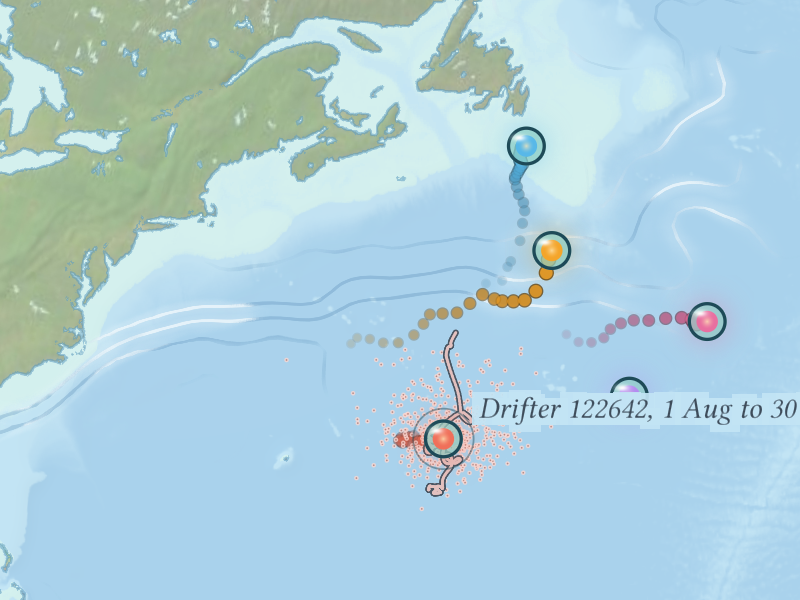
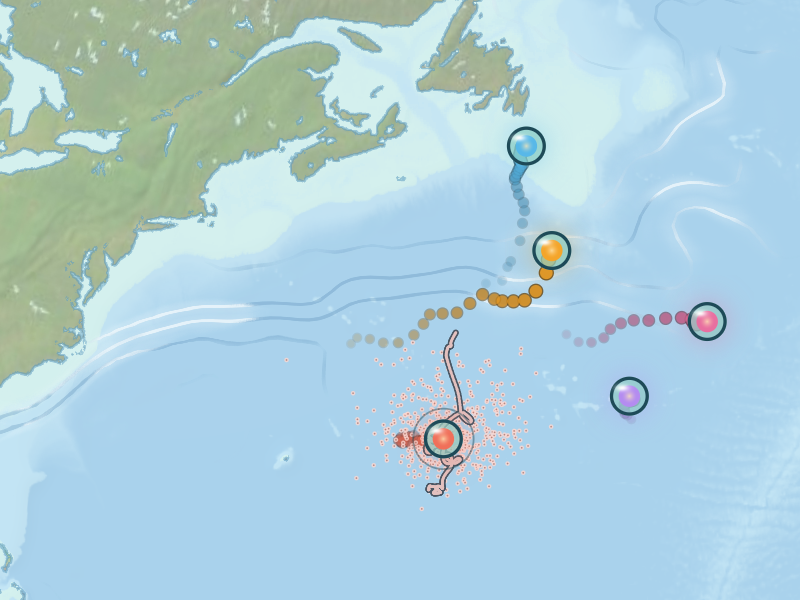
Adrift, Visual R5: a chosen lamp's possibilities at a glance; the night deepens round it; the label gone; the lights' tiny blink (painting-company row 196) [skip ci]
The owner's real use case: zoomed out, see where all a lamp's possibilities are. From zoom 2.4 out
each self is a soft kernel at a low alpha, so five hundred lie into a field of the lamp's hue, a
density pale where one passed and the lamp's colour where many did; close in they are the dusting
as before. A veil pass of the look's own, drawn before the marks, deepens the night (by day a cool
lighter veil) everywhere but a soft window round the chosen lamp, so its cloud is what the eye
goes to and the living land steps back without going dark. The drifter's label is gone unless
the truth's marks are asked for, the silver stays. Close in each light blinks a tiny bit of its
own, the feeling of flying over a city. Two plans photograph it by night at zoom 1 and 1.6.

Claude-Session: https://claude.ai/code/session_01BAtsk9kaoqfcFmaDHtS7UL

Changed region(s): [[0.5938, 0.63, 1.0, 0.72]]

diff --git a/adrift/crates/adrift-core/src/look/veil.rs b/adrift/crates/adrift-core/src/look/veil.rs
@@ -1,0 +1,57 @@
+//! The veil (`veil.wgsl`): the night deepening round the chosen lamp so its cloud is what the eye
+//! goes to; a full-screen pass over the stage, before the marks.
+use super::{marks_wgsl, Uniform};
+use crate::gpu::Gpu;
+use bytemuck::{Pod, Zeroable};
+
+#[repr(C)]
+#[derive(Clone, Copy, Debug, Default, Pod, Zeroable)]
+pub struct VeilUniform {
+    pub centre: [f32; 4],
+    pub radius: f32,
+    pub soft: f32,
+    pub strength: f32,
+    pub night: f32,
+}
+
+pub struct Veil {
+    pipeline: wgpu::RenderPipeline,
+    uniform: Uniform<VeilUniform>,
+    on: bool,
+}
+
+impl Veil {
+    pub fn new(gpu: &Gpu, view: &wgpu::BindGroupLayout) -> Veil {
+        let module = gpu.shader("veil", &marks_wgsl(include_str!("veil.wgsl")));
+        let uniform = Uniform::new(gpu, "veil");
+        let layout = gpu.device.create_pipeline_layout(&wgpu::PipelineLayoutDescriptor { label: Some("veil"), bind_group_layouts: &[view, &uniform.layout], push_constant_ranges: &[] });
+        let pipeline = gpu.device.create_render_pipeline(&wgpu::RenderPipelineDescriptor {
+            label: Some("veil"),
+            layout: Some(&layout),
+            vertex: wgpu::VertexState { module: &module, entry_point: Some("vs"), buffers: &[], compilation_options: Default::default() },
+            fragment: Some(wgpu::FragmentState { module: &module, entry_point: Some("fs"), compilation_options: Default::default(), targets: &[Some(wgpu::ColorTargetState { format: gpu.format, blend: Some(Gpu::over()), write_mask: wgpu::ColorWrites::ALL })] }),
+            primitive: wgpu::PrimitiveState { topology: wgpu::PrimitiveTopology::TriangleList, ..Default::default() },
+            depth_stencil: None,
+            multisample: Default::default(),
+            multiview: None,
+            cache: None,
+        });
+        Veil { pipeline, uniform, on: false }
+    }
+
+    /// The window round `centre` (a unit vector), `strength` 0..1 with the cloud's bloom.
+    pub fn prepare(&mut self, gpu: &Gpu, centre: [f32; 3], strength: f32, night: bool) {
+        self.on = strength > 0.0;
+        self.uniform.write(gpu, &VeilUniform { centre: [centre[0], centre[1], centre[2], 0.0], radius: 120.0, soft: 110.0, strength, night: night as u8 as f32 });
+    }
+
+    pub fn draw<'a>(&'a self, rp: &mut wgpu::RenderPass<'a>, view_bind: &'a wgpu::BindGroup) {
+        if !self.on {
+            return;
+        }
+        rp.set_pipeline(&self.pipeline);
+        rp.set_bind_group(0, view_bind, &[]);
+        rp.set_bind_group(1, &self.uniform.group, &[]);
+        rp.draw(0..6, 0..1);
+    }
+}

diff --git a/adrift/crates/adrift-core/src/look/mod.rs b/adrift/crates/adrift-core/src/look/mod.rs
@@ -9,6 +9,7 @@ pub mod ground;
 pub mod maybes;
 pub mod sea;
 pub mod silver;
+pub mod veil;
 pub mod sprites;
 pub mod wake;
 pub mod words;
@@ -262,6 +263,7 @@ pub struct Look {
     hue: [f32; 3],
     /// The drifter's point nearest the float last held, kept while the silver sinks.
     nearest: usize,
+    pub veil: veil::Veil,
     pub wake: wake::Wake,
     pub maybes: maybes::MaybesPass,
     pub silver: silver::Silver,
@@ -275,6 +277,7 @@ impl Look {
             bloom_from: [0.0, 0.0, 1.0],
             hue: [0.957, 0.647, 0.165],
             nearest: 0,
+            veil: veil::Veil::new(gpu, view),
             wake: wake::Wake::new(gpu, view),
             maybes: maybes::MaybesPass::new(gpu, view),
             silver: silver::Silver::new(gpu, view),
@@ -306,6 +309,7 @@ impl Look {
             self.hue = lamp_hue(f.id);
         }
         self.maybes.prepare(gpu, self.bloom_from, state.bloom, n, self.hue);
+        self.veil.prepare(gpu, self.bloom_from, state.bloom, n);
         let track: Vec<[f32; 3]> = state.drifter.iter().map(|p| unit(*p)).collect();
         self.silver.prepare(gpu, &track, state.rise, n, self.hue);
         let mut fl: Vec<floats::FloatInstance> = state
@@ -322,7 +326,7 @@ impl Look {
         // (the label from zoom 1.5: at the whole Earth it would be a banner across an ocean; shown or not,
         // never half)
         let zoom = disc[2] / ((width.min(height) / 2.0 - 14.0).max(40.0));
-        if state.rise > 0.0 && !state.drifter.is_empty() && !state.drifter_label.is_empty() && zoom >= 1.5 {
+        if state.truth_marks && state.rise > 0.0 && !state.drifter.is_empty() && !state.drifter_label.is_empty() && zoom >= 1.5 {
             // (the point nearest the held float; kept while the silver sinks after the float is let go)
             if let Some(i) = state.drifter_nearest {
                 self.nearest = i;

diff --git a/adrift/crates/adrift-core/src/look/CRITICS.md b/adrift/crates/adrift-core/src/look/CRITICS.md
@@ -335,3 +335,27 @@ across the sea and grey ringed dots. Judged on 241d9e0 with this round's changes
 **Holt**: "My lamps are mine by colour now, and their other lives wear the same colour, so I
 never wonder whose cloud I am looking at. The date breathes when it is alive and is still when I
 stopped it; nothing else tells me what to do."
+
+**The real use case: a chosen lamp's possibilities at a glance** (the owner's third word; the
+round's centre). `look/plans/glance.json` (Europe and Africa by night at zoom 1.6, a lamp chosen
+off Libya) and `glance-atlantic.json` (the whole Atlantic at zoom 1, the Gulf Stream lamp chosen):
+`studies/r5-glance-mediterranean-night-phone.png`, `r5-glance-atlantic-night-phone.png`, device
+pixels. What changed: from zoom 2.4 out each self is a soft kernel seven reading points across at a
+low alpha, so five hundred of them lie into a field of the lamp's hue, pale where one passed and the
+lamp's own colour where many did; a veil of Visual's own (a full-screen pass before the marks)
+deepens the night everywhere but a soft window round the chosen lamp, so the living land steps back
+without going dark; the drifter's label is gone (no buoy number in prose); close in the lights
+blink a tiny bit each, the airplane feeling.
+
+**The hater, asked the round's one question: does the land pull the eye from the lamp and its
+cloud?** "No. At the whole Atlantic the gold plume off Hatteras is the brightest thing on the dark
+side of the screen and the cities under it are a texture; the plume has shape, dense by the lamp
+and thinning along the stream, which is the current's own. Off Libya the cloud is a pink disc: the
+sea there barely moves, so the selves sit together, and the field says so honestly, if plainly. The
+veil is a vignette, and I would mock a vignette, but it is half a stop and it ends where the cloud
+does; I noticed the cloud before I noticed the veil. The blink close in is small enough that I had
+to look for it; good." Verdict: passes. One knob: the disc of a still sea could carry a hint of
+its lamp's glass (a rim) so it reads as a place, not a stain.
+
+**Holt**: "I zoomed out and the cloud was still there, bigger and softer, where I'd left it; the
+land went quieter round it without my asking; nothing told me anything in words."

diff --git a/adrift/crates/adrift-core/src/look/README.md b/adrift/crates/adrift-core/src/look/README.md
@@ -23,6 +23,7 @@ skeleton lands.
 
 | pass | instance (vertex buffer, step mode instance) | group 1 |
 | --- | --- | --- |
+| `veil.wgsl` | none: a full-screen quad | `Veil {centre, radius, soft, strength, night}`: the night deepening round the chosen lamp, drawn before the marks |
 | `wake.wgsl` | `g: vec3<f32>`, `age: f32` (0 newest .. 1 oldest), `night: f32` | `Wake {layer}`; drawn twice, edges then beads |
 | `maybes.wgsl` | `p: vec4<f32>` lon, lat, held, k (`gpu::Maybes`, the buffer `rules.wgsl` fills) | `Maybes {bloom, night}` uniform |
 | `silver.wgsl` | `a: vec3<f32>`, `b: vec3<f32>`, `t: f32` (segments of the track) | `Silver {rise, night, layer}`; drawn twice, dark lines then wires |
